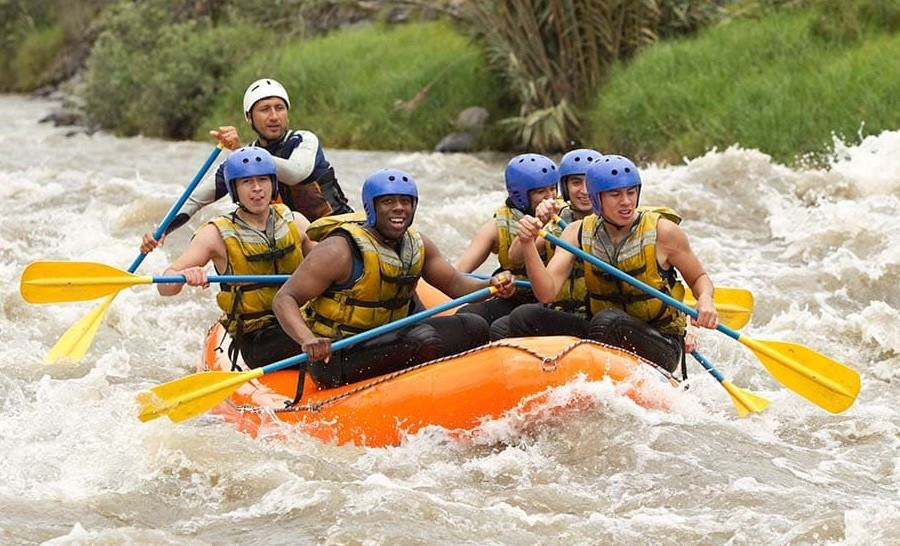
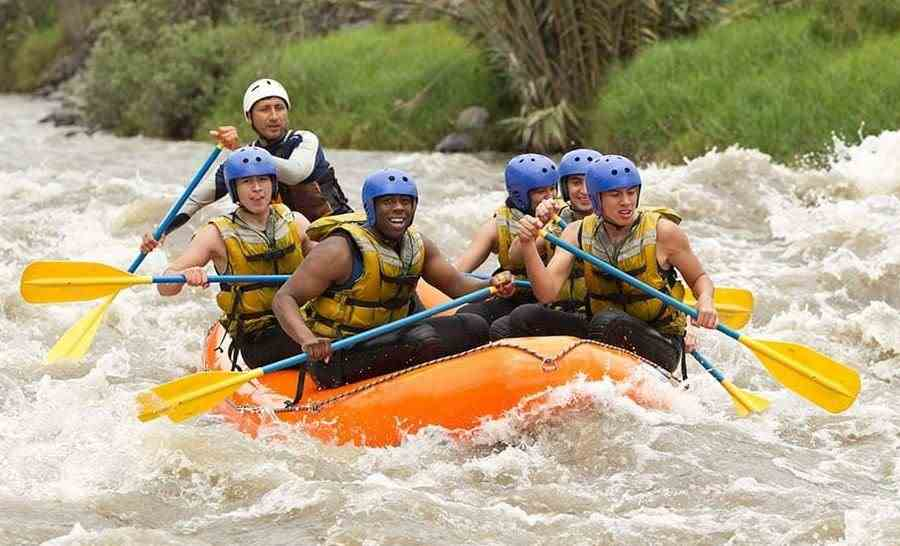
Tarefa 04 - Atualização Sobre Nós

diff --git a/wwr/sobre.html b/wwr/sobre.html
@@ -37,25 +37,44 @@
                     profundo respeito ambiental.</p>
             </article>
         </div>
-        <section>
+        <section class="historia">
             <h2>História</h2>
             <p>Nossa trajetória começou há mais de duas décadas, quando um grupo de exploradores
                 apaixonados pelos
-                rios decidiu mapear e desbravar corredeiras até então inexploradas na região, muito
-                antes de o
-                rafting se popularizar como esporte no país. O que nasceu como expedições
-                desbravadoras com
-                equipamentos importados e espírito aventureiro logo se transformou na primeira
-                operadora
-                especializada em esportes aquáticos radicais do estado. Ao longo dos anos, abrimos
-                rotas inéditas,
-                formamos gerações de condutores certificados e estabelecemos os padrões de segurança
-                que hoje
-                definem o mercado, mantendo viva a essência de quem abriu caminho nas águas bravas.
+                rios decidiu mapear corredeiras até então inexploradas na região, muito antes de o
+                rafting se
+                popularizar no país.
+            </p>
+            <img src="imagens/rafting16.jpg" alt="Rafting - Aventura">
+            <p>Ao longo dos anos, abrimos rotas inéditas, formamos condutores certificados e
+                estabelecemos padrões
+                de segurança que definem o mercado atual, mantendo viva a essência de quem abriu
+                caminho nas águas
+                bravas.
             </p>
         </section>
-        <section>
+        <section class="aventura">
             <h2>A aventura está te esperando!</h2>
+            <figure>
+                <img src="imagens/rafting01.jpg" alt="Grupo de pessoas">
+                <figcaption>Desenvolvendo Amizades</figcaption>
+            </figure>
+            <figure>
+                <img src="imagens/rafting02.jpg" alt="Um belo rio">
+                <figcaption>Proximidade da Natureza</figcaption>
+            </figure>
+            <figure>
+                <img src="imagens/rafting03.jpg" alt="Barco com pessoas">
+                <figcaption>Momentos Intensos</figcaption>
+            </figure>
+            <figure>
+                <img src="imagens/rafting04.jpg" alt="Barco no rio">
+                <figcaption>Integrando a Natureza</figcaption>
+            </figure>
+            <figure>
+                <img src="imagens/rafting05.jpg" alt="Remos">
+                <figcaption>Força e Energia</figcaption>
+            </figure>
         </section>
     </main>
     <footer>

diff --git a/wwr/estilos/rafting.css b/wwr/estilos/rafting.css
@@ -22,7 +22,7 @@ header,
 main,
 footer {
     width: 840px;
-    margin: 0 auto;
+    margin: 1rem auto;
 }
 
 h1,
@@ -30,19 +30,6 @@ h2 {
     font-family: var(--fonte-titulo);
     color: var(--cor-primaria);
     text-align: center;
-}
-
-nav,
-p,
-section,
-article {
-    margin: 16px;
-    padding: 8px;
-}
-
-.redes-sociais a,
-.socialmedia a {
-    text-decoration: none;
 }
 
 .hero {
@@ -89,7 +76,125 @@ h1 {
     color: #fff;
 }
 
+header {
+    width: 840px;
+    margin: 1rem auto;
+    display: grid;
+    grid-template-columns: 220px 1fr;
+    align-items: center;
+}
+
+header img {
+    margin: 0 0.25rem 0 4rem;
+    width: 120px;
+    height: auto;
+}
+
+nav ul {
+    display: flex;
+    list-style: none;
+}
+
+nav li {
+    flex: 1 1 auto;
+}
+
+nav a {
+    display: block;
+    color: navy;
+    padding: 20px;
+    text-decoration: none;
+    font-size: 1.2rem;
+}
+
+.historia {
+    display: grid;
+    grid-template-columns: 1fr 200px 1fr;
+    gap: 1rem;
+    align-items: center;
+    padding: 1rem;
+    margin: 1rem auto;
+}
+
+.historia h2 {
+    grid-column: 1 / 4;
+}
+
+.historia img {
+    width: 100%;
+    height: auto;
+}
+
+.historia p {
+    margin: 0;
+    padding: 0;
+}
+
+.aventura {
+    display: grid;
+    grid-template-columns: repeat(5, 1fr);
+    gap: 1rem;
+    align-items: center;
+    padding: 1rem;
+    margin: 1rem auto;
+
+}
+
+.aventura h2 {
+    grid-column: 1 / 6;
+}
+
+.aventura img {
+    width: 100%;
+    height: auto;
+}
+
+.aventura figure {
+    margin: 0;
+    text-align: center;
+}
+
+.aventura figcaption {
+    margin-top: 0.1rem;
+    font-size: 0.8rem;
+}
+
 footer {
-    color: #fff;
+    width: 840px;
+    display: grid;
+    grid-template-columns: 1fr auto 1fr;
+    align-items: center;
+    gap: 1rem;
     background-color: var(--cor-primaria);
+    color: #fff;
+    padding: 1rem 2rem;
+    margin: 1rem auto;
+}
+
+footer p {
+    grid-column: 2;
+    margin: 0;
+    text-align: center;
+    white-space: nowrap;
+}
+
+.redes-sociais,
+.socialmedia {
+    grid-column: 3;
+    justify-self: start;
+    display: flex;
+    gap: 0.8rem;
+}
+
+.redes-sociais a,
+.socialmedia a {
+    text-decoration: none;
+    padding: 0;
+}
+
+.redes-sociais img,
+.socialmedia img {
+    width: 35px;
+    height: auto;
+    display: block;
 }
